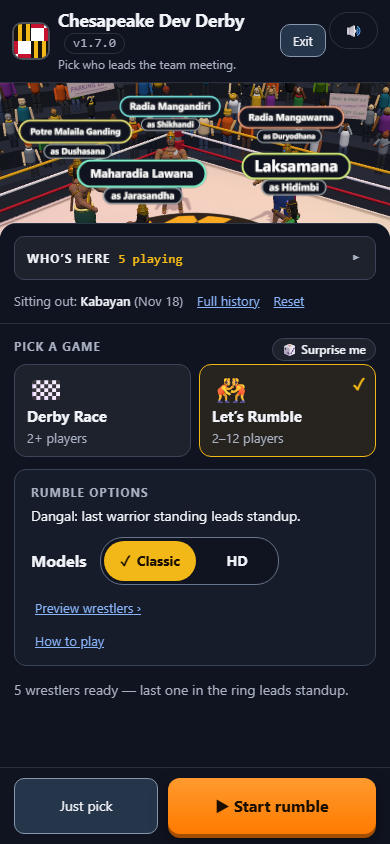
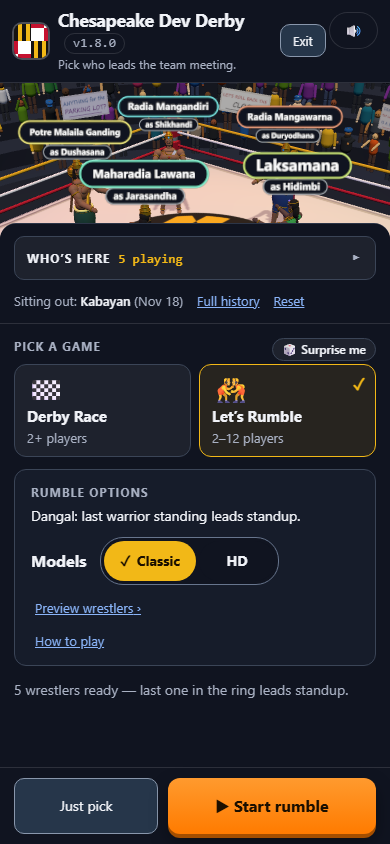
Accessibility: WAVE 10/10 alert fixes and v1.8.0 README screenshots (#129)
Contributor & Co-authored-by: Antigravity (Gemini 4 Neon)

Changed region(s): [[0.0, 0.0924, 1.0, 0.2773]]

diff --git a/public/index.html b/public/index.html
@@ -14,7 +14,7 @@
     <canvas id="scene" aria-hidden="true"></canvas>
 
     <div id="toolbar">
-      <button id="mute" type="button" title="Sound on/off" aria-label="Toggle sound">🔊</button>
+      <button id="mute" type="button" aria-label="Toggle sound">🔊</button>
       <button id="quit" type="button" hidden>✕ Quit race</button>
     </div>
 
@@ -23,7 +23,7 @@
       <header class="lobby-head">
         <div class="flag-chip" aria-hidden="true"></div>
         <div class="lobby-title">
-          <h1>Chesapeake Dev Derby <span id="app-version" class="app-version" hidden></span> <span id="demo-badge" class="demo-badge" title="A browser-only demo: names and results are saved only in this browser." hidden>Demo</span> <span class="live-pill" aria-hidden="true">LIVE</span></h1>
+          <h1>Chesapeake Dev Derby <span id="app-version" class="app-version" hidden></span> <span id="demo-badge" class="demo-badge" hidden>Demo</span> <span class="live-pill" aria-hidden="true">LIVE</span></h1>
           <p class="tagline">Pick who leads the team meeting.</p>
           <p id="demo-note" class="demo-note" hidden>Demo: names and results are saved only in this browser. Nothing is sent anywhere.</p>
         </div>
@@ -50,7 +50,7 @@
               <span class="team-title">Who’s here</span>
             </h2>
             <span id="racer-count" class="count"></span>
-            <button id="drawer-toggle" type="button" class="drawer-toggle" aria-expanded="true" aria-controls="team-body" title="Hide lineup (H)" aria-label="Hide lineup">◂</button>
+            <button id="drawer-toggle" type="button" class="drawer-toggle" aria-expanded="true" aria-controls="team-body" aria-label="Hide lineup">◂</button>
           </div>
           <div id="team-body">
             <nav class="roster-actions" aria-label="Team list controls">
@@ -83,7 +83,7 @@
         <section id="game-section" class="lobby-area">
           <fieldset class="mode-picker">
             <legend class="area-title">Pick a game</legend>
-            <button id="surprise-mode" type="button" class="surprise-btn" title="Pick a random eligible game">🎲 Surprise me</button>
+            <button id="surprise-mode" type="button" class="surprise-btn" aria-label="Surprise me: pick a random eligible game">🎲 Surprise me</button>
             <div id="mode-cards" class="mode-cards"></div>
           </fieldset>
           <div id="mode-options" class="mode-options"></div>
@@ -126,7 +126,7 @@
     <template id="guide-race">
       <div class="guide-grid">
         <div>
-          <h4>Obstacles</h4>
+          <h3>Obstacles</h3>
           <ul>
             <li><b>404 pit</b> — fall in, respawn after a moment</li>
             <li><b>Broken link</b> — trip and spin out</li>
@@ -142,7 +142,7 @@
           </ul>
         </div>
         <div>
-          <h4>Items (from <code>{?}</code> crates)</h4>
+          <h3>Items (from <code>{?}</code> crates)</h3>
           <ul>
             <li>☕ <b>Coffee</b> — speed boost</li>
             <li>💨 <b>Bay Breeze</b> — big tailwind for those behind</li>
@@ -157,7 +157,7 @@
             <li>🎭 <b>Security Theater</b> — locks a rival to 12–15 mph. "Vahi says you're going too fast."</li>
             <li>📊 <b>200GB Table</b> — thrown at the racer ahead; it flattens them for a moment. "You're wasting disk space."</li>
           </ul>
-          <h4>Racers</h4>
+          <h3>Racers</h3>
           <p class="guide-list" data-list="racers"></p>
         </div>
       </div>
@@ -165,7 +165,7 @@
     <template id="guide-rumble">
       <p>A battle royal in a wrestling ring, as Mahabharata wrestlers. Everyone starts in the ring; go over the top rope and you're out. The last one in the ring leads today’s standup.</p>
       <p><b>Classic</b> uses the original character models, <b>HD</b> the detailed ones.</p>
-      <h4>Wrestlers</h4>
+      <h3>Wrestlers</h3>
       <p class="guide-list" data-list="wrestlers"></p>
     </template>
 

diff --git a/test/wave-alerts.test.js b/test/wave-alerts.test.js
@@ -1,0 +1,45 @@
+// WAVE Aim 10/10 guardrails (#129): zero errors, zero contrast errors (test/contrast.test.js),
+// and zero alerts across the lobby, Edit team list, Winner history, and Absentee list pages.
+import test from 'node:test';
+import assert from 'node:assert/strict';
+import { readFile } from 'node:fs/promises';
+
+const PAGES = ['index.html', 'roster.html', 'history.html', 'absences.html'];
+
+async function readPublic(rel) {
+  return (await readFile(new URL(`../public/${rel}`, import.meta.url), 'utf8')).replace(/\r\n/g, '\n');
+}
+
+test('no HTML page uses redundant title attributes or skipped heading levels', async () => {
+  for (const page of PAGES) {
+    const html = await readPublic(page);
+    // No static `title="..."` attributes on the four main pages (tooltips/labels use visible text or aria-label).
+    const titles = [...html.matchAll(/\btitle="([^"]*)"/g)].map((m) => m[0]);
+    assert.deepEqual(titles, [], `${page} has static title attributes that can trigger WAVE alerts: ${titles.join(', ')}`);
+
+    // No skipped heading levels (e.g. h2 -> h4).
+    const levels = [...html.matchAll(/<h([1-6])\b/g)].map((m) => Number(m[1]));
+    for (let i = 1; i < levels.length; i++) {
+      assert.ok(levels[i] <= levels[i - 1] + 1, `${page}: skipped heading level h${levels[i - 1]} -> h${levels[i]}`);
+    }
+  }
+});
+
+test('name renderers only attach title tooltips when an email address was shortened', async () => {
+  for (const file of ['js/main.js', 'js/history.js', 'js/absences.js']) {
+    const src = await readPublic(file);
+    // Every `.title =` assignment in these three lobby/history/absences scripts must be guarded by an `if`.
+    const unguarded = src
+      .split('\n')
+      .filter((line) => /\.\btitle\s*=/.test(line) && !/^\s*if\s*\(/.test(line));
+    assert.deepEqual(unguarded, [], `${file} has unguarded .title assignments: ${unguarded.join(' | ')}`);
+  }
+});
+
+test('no CSS font-size is 10px or smaller (avoids WAVE "Very small text" alert)', async () => {
+  const css = await readPublic('css/style.css');
+  const tiny = [...css.matchAll(/font-size:\s*(\d+(?:\.\d+)?)px/g)]
+    .map((m) => Number(m[1]))
+    .filter((px) => px <= 10);
+  assert.deepEqual(tiny, [], `found font-size <= 10px: ${tiny.join(', ')}`);
+});

diff --git a/public/js/main.js b/public/js/main.js
@@ -165,8 +165,9 @@ function renderLobby() {
     box.type = 'checkbox';
     const name = document.createElement('span');
     name.className = 'name';
-    name.textContent = show(entry.name);
-    name.title = entry.name; // full name on hover (shortened addresses, or long names cut off by the tile)
+    const shownName = show(entry.name);
+    name.textContent = shownName;
+    if (shownName !== entry.name) name.title = entry.name; // full email on hover only when shortened
     label.append(box, name);
 
     if (entry.eligible) {
@@ -196,7 +197,6 @@ function renderLobby() {
       text.className = 'who';
       text.append(name, badge);
       label.append(text);
-      label.title = `${show(entry.name)} won recently — eligible again in ${wait} pick${wait === 1 ? '' : 's'}.`;
     }
     li.append(label);
     list.append(li);
@@ -238,7 +238,6 @@ function setDrawerOpen(open) {
   const btn = $('drawer-toggle');
   btn.setAttribute('aria-expanded', String(open));
   btn.textContent = open ? '◂' : '▸';
-  btn.title = open ? 'Hide lineup (H)' : 'Show lineup (H)';
   btn.setAttribute('aria-label', open ? 'Hide lineup' : 'Show lineup');
 }
 
@@ -788,7 +787,6 @@ async function showVersion() {
     if (typeof version !== 'string' || !version) return;
     const el = $('app-version');
     el.textContent = `v${version}`;
-    el.title = `Version ${version}`;
     el.hidden = false;
   } catch {
     /* an older server without /api/version: just leave it out */

diff --git a/public/js/absences.js b/public/js/absences.js
@@ -37,10 +37,12 @@ async function load() {
     for (const row of result.rows) {
       const tr = document.createElement('tr');
       const [day, time] = dateAndTime(row.date);
-      const absent = cell(row.absent.map(show).join(', '), 'who');
-      absent.title = row.absent.join('\n');
-      const picked = cell(show(row.name), 'picked');
-      picked.title = row.name;
+      const shownAbsent = row.absent.map(show);
+      const absent = cell(shownAbsent.join(', '), 'who');
+      if (row.absent.some((n, i) => shownAbsent[i] !== n)) absent.title = row.absent.join('\n');
+      const shownPicked = show(row.name);
+      const picked = cell(shownPicked, 'picked');
+      if (shownPicked !== row.name) picked.title = row.name;
       tr.append(cell(String(row.number), 'num'), cell(day), cell(time), absent, cell(MODE[row.mode] ?? '—', `mode ${row.mode ?? 'unknown'}`), picked);
       tbody.append(tr);
     }

diff --git a/public/css/style.css b/public/css/style.css
@@ -135,7 +135,7 @@ h1 {
   border-radius: 999px;
   background: var(--red);
   color: #ffffff;
-  font-size: 11px;
+  font-size: 12px;
   font-weight: 750;
   letter-spacing: 0.08em;
   vertical-align: middle;
@@ -303,7 +303,7 @@ button.link, a.link {
 }
 
 #roster .badge {
-  font-size: 11px;
+  font-size: 12px;
   color: #ffa8a8;
   white-space: nowrap;
 }
@@ -344,7 +344,7 @@ button.link, a.link {
   line-height: 1.5;
 }
 
-.how-to-play h4 {
+.how-to-play h3 {
   margin: 8px 0 4px;
   font-size: 13px;
   color: var(--text);
@@ -1134,7 +1134,7 @@ button.exit { padding: 7px 12px; font-size: 13px; }
   background: var(--gold);
   color: #1b0f00;
   font-family: var(--mono);
-  font-size: 11px;
+  font-size: 12px;
   font-weight: 800;
   letter-spacing: 0.06em;
 }

diff --git a/public/js/history.js b/public/js/history.js
@@ -25,8 +25,9 @@ async function load() {
     history.forEach((entry, i) => {
       const tr = document.createElement('tr');
       const [day, time] = dateAndTime(entry.date);
-      const name = cell(shown.get(nameKey(entry.name)) ?? entry.name, 'who');
-      name.title = entry.name;
+      const shownName = shown.get(nameKey(entry.name)) ?? entry.name;
+      const name = cell(shownName, 'who');
+      if (shownName !== entry.name) name.title = entry.name;
       tr.append(
         cell(String(history.length - i), 'num'),
         name,

diff --git a/CHANGELOG.md b/CHANGELOG.md
@@ -7,6 +7,15 @@ to release.
 
 ## [Unreleased]
 
+### Fixed
+- **Accessibility / WAVE 10/10 (#129):** eliminated redundant `title` attributes across the lobby,
+  **Winner history**, and **Absentee list** (only setting hover `title` when an email address is
+  actually shortened), fixed skipped `h2 → h4` heading levels inside the **How to play** templates,
+  bumped `11px` pill/badge text to `12px`, and added `test/wave-alerts.test.js` to guard against
+  regressions.
+- **README screenshots (#129):** regenerated `docs/lobby-wide.png` and `docs/lobby-phone.png` for
+  **v1.8.0**.
+
 ## [1.8.0] - 2026-11-20
 
 The lobby rework (#123), built with Google Gemini 4 Neon in Antigravity.
